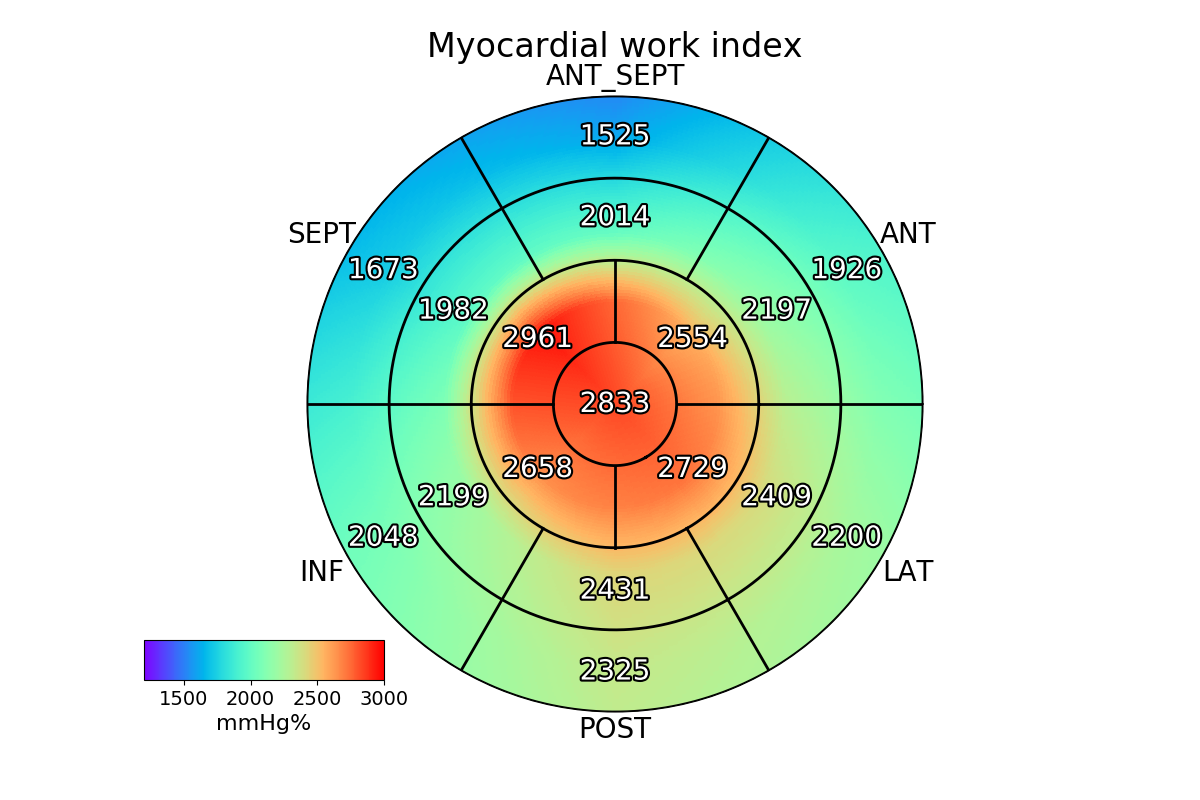
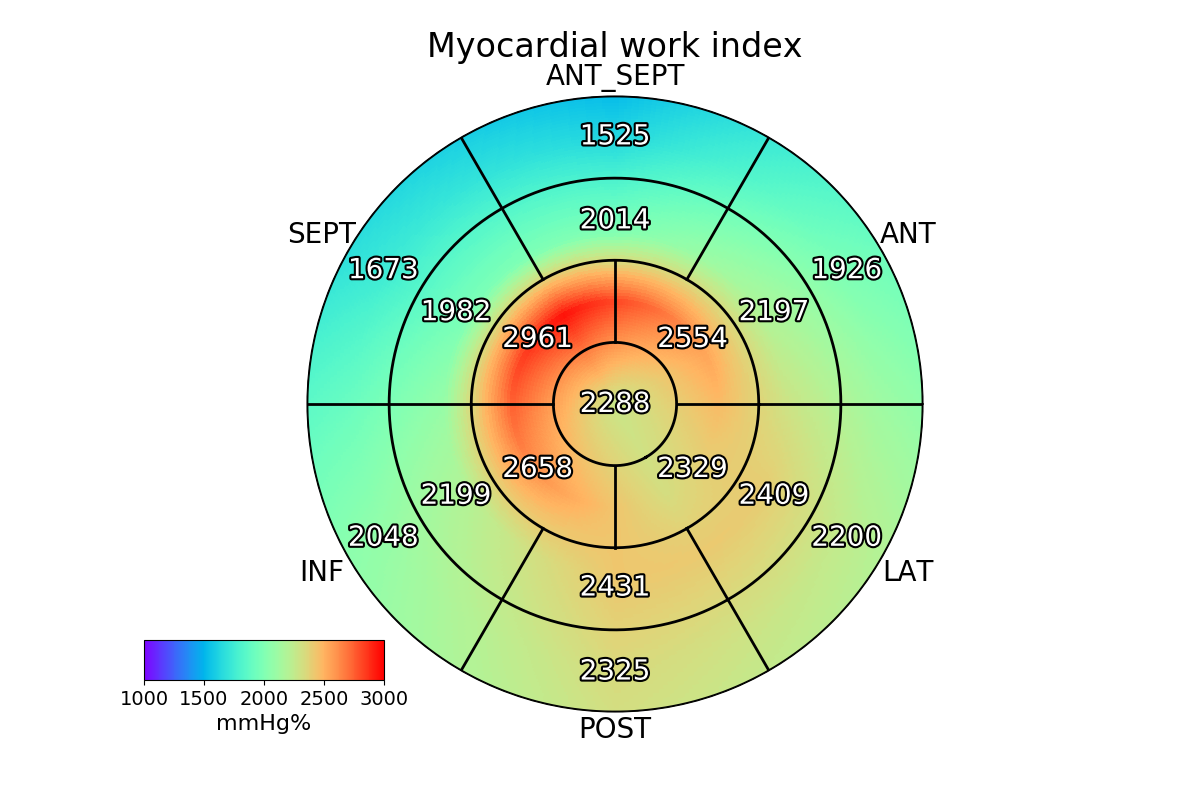
testing

diff --git a/ahasmoothplot.py b/ahasmoothplot.py
@@ -21,41 +21,68 @@ class SmoothAHAPlot:
     Two helper methods are included, adjusted to plot myocardial work and strain values with proper scales.
     """
 
-    # If a pandas dataframe is provided, it should have the following names:
+    # If pandas Series/dictionary must have following index/keys:
     AHA_17_SEGMENT_NAMES = ['Basal Anterior', 'Basal Anteroseptal', 'Basal Inferoseptal',
                             'Basal Inferior', 'Basal Inferolateral', 'Basal Anterolateral',
                             'Mid Anterior', 'Mid Anteroseptal', 'Mid Inferoseptal',
                             'Mid Inferior', 'Mid Inferolateral', 'Mid Anterolateral',
                             'Apical Anterior', 'Apical Septal', 'Apical Inferior', 'Apical Lateral', 'Apex']
     # or
-    ECHOP_18_SEGMENTS = ['Basal Anterior', 'Basal Anteroseptal', 'Basal Septal',
-                         'Basal Inferior', 'Basal Posterior', 'Basal Lateral',
-                         'Mid Anterior', 'Mid Anteroseptal', 'Mid Septal',
-                         'Mid Inferior', 'Mid Posterior', 'Mid Lateral',
-                         'Apical Anterior', 'Apical Anteroseptal', 'Apical Septal',
-                         'Apical Inferior', 'Apical Posterior', 'Apical Lateral']
+    AHA_18_SEGMENT_NAMES = ['Basal Anterior', 'Basal Anteroseptal', 'Basal Inferoseptal',
+                            'Basal Inferior', 'Basal Inferolateral', 'Basal Anterolateral',
+                            'Mid Anterior', 'Mid Anteroseptal', 'Mid Inferoseptal',
+                            'Mid Inferior', 'Mid Inferolateral', 'Mid Anterolateral',
+                            'Apical Anterior', 'Apical Anteroseptal', 'Apical Inferoseptal',
+                            'Apical Inferior', 'Apical Inferolateral', 'Apical Anterolateral']
 
-    # The actual names of the segments:
+    # The names of the segments:
     AHA_SEGMENT_NAMES = ['Anterior', 'Anteroseptal', 'Inferoseptal',
                          'Inferior', 'Inferolateral', 'Anterolateral']
+
     # EchoPAC version of the names:
     ECHOP_SEGMENT_ABBRV = ['ANT', 'ANT_SEPT', 'SEPT', 'INF', 'POST', 'LAT']
 
-    def __init__(self, data, output_path='', plot_filename='AHA_plot.png', n_segments=17):
+    def __init__(self, segments, output_path='', n_segments=17):
 
-        if data is None:
-            self.data = [0] * n_segments
+        assert n_segments in [17, 18], ('Please provide the correct number of segments for the plot: 17 or 18.'
+                                        'Current n_segments: {}'.format(n_segments))
+        self.n_segments = n_segments
+
+        if segments is None:
+            self.seg_values = [0] * n_segments
             print('No data provided. Please provide segmental values for the plot: SmoothAHAPlot.data = ...')
         else:
-            assert len(data) == n_segments, 'Please provide the proper number of segmental values for the plot. ' \
-                                            'len(data) = {}, n_segments: {}'.format(len(data), n_segments)
-            self.data = data
-        self.n_segments = n_segments
+            assert len(segments) == n_segments, 'Please provide the proper number of segmental values for the plot. ' \
+                                                'len(data) = {}, n_segments: {}'.format(len(segments), n_segments)
+            self.seg_values = self._get_segmental_values(segments)
+
         self.output_path = output_path
-        self.plot_filename = plot_filename
         self.levels = None
         self.fig = None
         self.resolution = (768, 100)
+
+    def _get_segmental_values(self, segments):
+
+        if self.n_segments == 17:
+            seg_list = self.AHA_17_SEGMENT_NAMES
+        else:
+            seg_list = self.AHA_18_SEGMENT_NAMES
+
+        segmental_values = []
+        if isinstance(segments, dict):
+            for seg_name in seg_list:
+                try:
+                    segmental_values.append(segments[seg_name])
+                except KeyError:
+                    exit('Value of segment {} is missing!'.format(seg_name))
+
+        elif isinstance(segments, pd.Series):
+            segments = segments.reindex(seg_list, axis=1)
+            if segments.isnull().values.any():
+                exit('Segmental names are incompatibile:\n{}\n{}'.format(segments.index, seg_list))
+            segmental_values = segments.values
+
+        return segmental_values
 
     def _interpolate_17_aha_values(self, aha_values=None):
         """
@@ -64,10 +91,10 @@ class SmoothAHAPlot:
             The 17 values
         :return:
         """
-        assert len(self.data) == 17, 'Please provide the proper number of segmental values for the 17 AHA plot. ' \
-                                     'len(data) = {}'.format(len(self.data))
+        assert len(self.seg_values) == 17, 'Please provide the proper number of segmental values for the 17 AHA plot. ' \
+                                           'len(data) = {}'.format(len(self.seg_values))
         if aha_values is None:
-            aha_values = self.data
+            aha_values = self.seg_values
 
         res_x = self.resolution[0]
         res_y = self.resolution[1]
@@ -115,10 +142,10 @@ class SmoothAHAPlot:
             The 18 values
         :return:
         """
-        assert len(self.data) == 18, 'Please provide the proper number of segmental values for the 18 AHA plot. ' \
-                                     'len(data) = {}'.format(len(self.data))
+        assert len(self.seg_values) == 18, ('Please provide the proper number of segmental values for the 18 AHA plot. '
+                                           'len(data) = {}'.format(len(self.seg_values)))
         if aha_values is None:
-            aha_values = self.data
+            aha_values = self.seg_values
 
         res_x = self.resolution[0]
         res_y = self.resolution[1]
@@ -184,7 +211,7 @@ class SmoothAHAPlot:
         """
 
         if norm is None:
-            norm = mpl.colors.Normalize(vmin=self.data.min(), vmax=self.data.max())
+            norm = mpl.colors.Normalize(vmin=self.seg_values.min(), vmax=self.seg_values.max())
         elif isinstance(norm, tuple) and len(norm) == 2:
             norm = mpl.colors.Normalize(vmin=norm[0], vmax=norm[1])
         else:
@@ -204,7 +231,7 @@ class SmoothAHAPlot:
             seg_names_pos = np.repeat([0.06], 6)
 
         # -----Basic assumptions on resolution--------------------------------------------------------------------------
-        self.data = np.array(self.data).ravel()
+        self.seg_values = np.array(self.seg_values).ravel()
         theta = np.linspace(0, 2 * np.pi, self.resolution[0])
         if echop:
             theta -= np.pi / 3
@@ -232,20 +259,20 @@ class SmoothAHAPlot:
 
         # -----Linear interpolation-------------------------------------------------------------------------------------
         if self.n_segments == 17:
-            interp_data = self._interpolate_17_aha_values(self.data)
+            interp_data = self._interpolate_17_aha_values(self.seg_values)
         else:
-            interp_data = self._interpolate_18_aha_values(self.data)
+            interp_data = self._interpolate_18_aha_values(self.seg_values)
 
         r = np.linspace(0, 1, interp_data.shape[0])
         # ==============================================================================================================
 
-        # -----Fill segments 1:12---------------------------------------------------------------------------------------
+        # -----Fill segments -------------------------------------------------------------------------------------------
         r0 = np.repeat(r[:, np.newaxis], self.resolution[0], axis=1).T
         theta0 = np.repeat(theta[:, np.newaxis], r0.shape[1], axis=1)
         z = interp_data
         z = z.T
 
-        # Colour
+        # Color the plot
         if smooth_contour and (self.levels is not None):
             cf = ax.contourf(theta0, r0, z, cmap=cmap, levels=self.levels)
             cf.ax.axis('off')
@@ -255,23 +282,23 @@ class SmoothAHAPlot:
         # Annotate
         for i in range(6):
             # Segments 1-6
-            ax.text(np.deg2rad(i * 60) + np.deg2rad(seg_align_12), np.mean(r[73:]), int(self.data[i]), fontsize=20,
+            ax.text(np.deg2rad(i * 60) + np.deg2rad(seg_align_12), np.mean(r[73:]), int(self.seg_values[i]), fontsize=20,
                     ha='center', va='center', color='w',
                     path_effects=[pef.Stroke(linewidth=3, foreground='k'), pef.Normal()])
             # Segments 7-12
-            ax.text(np.deg2rad(i * 60) + np.deg2rad(seg_align_12), np.mean(r[46:73]), int(self.data[i+6]), fontsize=20,
+            ax.text(np.deg2rad(i * 60) + np.deg2rad(seg_align_12), np.mean(r[46:73]), int(self.seg_values[i+6]), fontsize=20,
                     ha='center', va='center', color='w',
                     path_effects=[pef.Stroke(linewidth=3, foreground='k'), pef.Normal()])
-            # Sides
+            # Segment names
             ax.text(np.deg2rad(i * 60) + np.deg2rad(seg_align_12), r[-1] + seg_names_pos[i], seg_names[i],
                     fontsize=20, ha='center', va='center', rotation=rot[i])
         # Segments 13-16
         for i in range(4):
-            ax.text(np.deg2rad(i * 90) + np.deg2rad(seg_align_13_16[i]), np.mean(r[20:46]), int(self.data[i + 12]),
+            ax.text(np.deg2rad(i * 90) + np.deg2rad(seg_align_13_16[i]), np.mean(r[20:46]), int(self.seg_values[i + 12]),
                     fontsize=20, ha='center', va='center', color='w',
                     path_effects=[pef.Stroke(linewidth=3, foreground='k'), pef.Normal()])
         # Segment 17
-        ax.text(0, 0, int(self.data[16]), fontsize=20, ha='center', va='center', color='w',
+        ax.text(0, 0, int(self.seg_values[16]), fontsize=20, ha='center', va='center', color='w',
                 path_effects=[pef.Stroke(linewidth=3, foreground='k'), pef.Normal()])
         # ==============================================================================================================
 
@@ -316,7 +343,7 @@ class SmoothAHAPlot:
         """
 
         if norm is None:
-            norm = mpl.colors.Normalize(vmin=self.data.min(), vmax=self.data.max())
+            norm = mpl.colors.Normalize(vmin=self.seg_values.min(), vmax=self.seg_values.max())
         elif isinstance(norm, tuple) and len(norm) == 2:
             norm = mpl.colors.Normalize(vmin=norm[0], vmax=norm[1])
         else:
@@ -334,7 +361,7 @@ class SmoothAHAPlot:
             seg_names_pos = np.repeat([0.06], 6)
 
         # -----Basic assumptions on resolution--------------------------------------------------------------------------
-        self.data = np.array(self.data).ravel()
+        self.seg_values = np.array(self.seg_values).ravel()
         theta = np.linspace(0, 2 * np.pi, self.resolution[0])
         if echop:
             theta -= np.pi / 3
@@ -356,9 +383,9 @@ class SmoothAHAPlot:
 
         # -----Linear interpolation-------------------------------------------------------------------------------------
         if self.n_segments == 17:
-            interp_data = self._interpolate_17_aha_values(self.data)
+            interp_data = self._interpolate_17_aha_values(self.seg_values)
         else:
-            interp_data = self._interpolate_18_aha_values(self.data)
+            interp_data = self._interpolate_18_aha_values(self.seg_values)
 
         r = np.linspace(0, 1, interp_data.shape[0])
         # ==============================================================================================================
@@ -373,13 +400,13 @@ class SmoothAHAPlot:
 
         # Annotate
         for i in range(6):
-            ax.text(np.deg2rad(i * 60) + np.deg2rad(seg_align), 0.84, int(self.data[i]), fontsize=20,
+            ax.text(np.deg2rad(i * 60) + np.deg2rad(seg_align), 0.84, int(self.seg_values[i]), fontsize=20,
                     ha='center', va='center', color='w',
                     path_effects=[pef.Stroke(linewidth=3, foreground='k'), pef.Normal()])
-            ax.text(np.deg2rad(i * 60) + np.deg2rad(seg_align), 0.55, int(self.data[i + 6]), fontsize=20,
+            ax.text(np.deg2rad(i * 60) + np.deg2rad(seg_align), 0.55, int(self.seg_values[i + 6]), fontsize=20,
                     ha='center', va='center', color='w',
                     path_effects=[pef.Stroke(linewidth=3, foreground='k'), pef.Normal()])
-            ax.text(np.deg2rad(i * 60) + np.deg2rad(seg_align), 0.25, int(self.data[i + 12]), fontsize=20,
+            ax.text(np.deg2rad(i * 60) + np.deg2rad(seg_align), 0.25, int(self.seg_values[i + 12]), fontsize=20,
                     ha='center', va='center', color='w',
                     path_effects=[pef.Stroke(linewidth=3, foreground='k'), pef.Normal()])
             ax.text(np.deg2rad(i * 60) + np.deg2rad(seg_align), r[-1] + seg_names_pos[i], seg_names[i],
@@ -409,14 +436,19 @@ class SmoothAHAPlot:
 
         return fig
 
-    def plot_myocardial_work(self, filename='', data=None, echop=False):
+    def _plot_setup(self, data):
 
-        if filename != '':
-            self.plot_filename = filename
         if data is not None:
             assert len(data) == self.n_segments, 'Please provide correct number of segmental values for the plot. ' \
                                                  'len(data) = {}, n_segments =  {}'.format(len(data), self.n_segments)
-            self.data = data
+            if not isinstance(data, list):
+                data = self._get_segmental_values(data)
+
+        return data
+
+    def plot_myocardial_work(self, filename='', data=None, echop=False):
+
+        self.seg_values = self._plot_setup(data)
 
         cmap = plt.get_cmap('rainbow')
         norm = (1000, 3000)
@@ -428,16 +460,11 @@ class SmoothAHAPlot:
         else:
             fig = self.bullseye_17_smooth(fig=fig, ax=ax, cmap=cmap, norm=norm, title='Myocardial work index',
                                           units='mmHg%', smooth_contour=False, echop=echop)
-        fig.savefig(os.path.join(self.output_path, self.plot_filename))
+        fig.savefig(os.path.join(self.output_path, filename))
 
     def plot_strain(self, filename='', data=None, echop=False):
 
-        if filename != '':
-            self.plot_filename = filename
-        if data is not None:
-            assert len(data) == self.n_segments, 'Please provide correct number of segmental values for the plot. ' \
-                                                 'len(data) = {}, n_segments =  {}'.format(len(data), self.n_segments)
-            self.data = data
+        self.seg_values = self._plot_setup(data)
 
         self.levels = MaxNLocator(nbins=12).tick_values(-30, 30)
         cmap = plt.get_cmap('seismic_r')
@@ -449,36 +476,4 @@ class SmoothAHAPlot:
         else:
             fig = self.bullseye_17_smooth(fig=fig, ax=ax, cmap=cmap, norm=norm, title='Longitudinal strain', units='%',
                                           smooth_contour=True, echop=echop)
-        fig.savefig(os.path.join(self.output_path, self.plot_filename))
-
-    def plot_all(self, df_path='', echop=True):
-
-        df_hyp = pd.read_excel(df_path, index_col=0)
-
-        if self.n_segments == 17:
-            df_hyp = df_hyp.reindex(self.AHA_17_SEGMENT_NAMES, axis=1)
-        else:
-            df_hyp = df_hyp.reindex(self.ECHOP_18_SEGMENTS, axis=1)
-
-        aha.plot_strain('htn_strain_1_aha.png', data=df_hyp.loc['mean_strain_avc_1'].values, echop=echop)
-        aha.plot_strain('htn_strain_2_aha.png', data=df_hyp.loc['mean_strain_avc_2'].values, echop=echop)
-        aha.plot_myocardial_work('htn_MW_1_aha.png', data=df_hyp.loc['mean_MW_1'].values, echop=echop)
-        aha.plot_myocardial_work('htn_MW_2_aha.png', data=df_hyp.loc['mean_MW_2'].values, echop=echop)
-        # aha.plot_strain('strain_all.png', data=df_hyp.loc['mean_strain_avc'].values, echop=echop)
-        # aha.plot_myocardial_work('MW_all.png', data=df_hyp.loc['mean_MW'].values, echop=echop)
-
-
-if __name__ == '__main__':
-    exp_strain_data = [-13, -14, -16, -19, -19, -18, -19, -23, -1, -21, -20, -20, -23, 1, -28, -25, -26, 27]
-    exp_mw_data = [1926, 1525, 1673, 2048, 2325, 2200, 2197, 2014, 1982, 2199, 2431, 2409, 2554, 2961, 2658, 2729, 2833]
-
-    n_seg = 18
-    exp_strain_data = exp_strain_data[:n_seg]
-    aha = SmoothAHAPlot(exp_strain_data, output_path='/home/mat/Python/data/parsing_xml/22 random/output',
-                        plot_filename='17_AHA_strain.png', n_segments=n_seg)
-    aha.plot_all('/home/mat/Python/data/parsing_xml/22 random/output/population_18_AHA.xlsx', echop=False)
-
-    # aha.plot_strain()
-    # aha.plot_myocardial_work('17_AHA_MW.png', data=exp_mw_data)
-    # aha.plot_strain('17_AHA_Echo_strain.png', data=exp_strain_data, echop=True)
-    # aha.plot_myocardial_work('17_AHA_Echo_MW.png', data=exp_mw_data, echop=True)
+        fig.savefig(os.path.join(self.output_path, filename))

diff --git a/test_18.py b/test_18.py
@@ -1,0 +1,40 @@
+from ahasmoothplot import SmoothAHAPlot
+import pandas as pd
+
+
+exp_strain_data = [-13, -14, -16, -19, -19, -18, -19, -23, -19, -21, -20, -20, -23, -22, -28, -25, -26, -22]
+exp_mw_data = [1926, 1525, 1673, 2048, 2325, 2200, 2197, 2014, 1982, 2199, 2431, 2409, 2554, 2961, 2658, 2329, 2533, 2441]
+n_seg = 18
+echop = False
+segments_18 = ['Basal Anterior', 'Basal Anteroseptal', 'Basal Inferoseptal',
+               'Basal Inferior', 'Basal Inferolateral', 'Basal Anterolateral',
+               'Mid Anterior', 'Mid Anteroseptal', 'Mid Inferoseptal',
+               'Mid Inferior', 'Mid Inferolateral', 'Mid Anterolateral',
+               'Apical Anterior', 'Apical Anteroseptal', 'Apical Inferoseptal',
+               'Apical Inferior', 'Apical Inferolateral', 'Apical Anterolateral']
+
+strain_dict = {k: v for (k, v) in zip(segments_18, exp_strain_data)}
+mw_dict = {k: v for (k, v) in zip(segments_18, exp_mw_data)}
+
+# aha = SmoothAHAPlot(exp_strain_data, output_path='/home/mat/Python/data/parsing_xml/22 random/output',
+#                     plot_filename='17_AHA_strain.png', n_segments=n_seg)
+#
+# df_hyp = pd.read_excel('/home/mat/Python/data/parsing_xml/22 random/output/population_18_AHA.xlsx', index_col=0)
+#
+# if aha.n_segments == 17:
+#     df_hyp = df_hyp.reindex(aha.AHA_17_SEGMENT_NAMES, axis=1)
+# else:
+#     df_hyp = df_hyp.reindex(segments_18, axis=1)
+#     df_hyp.columns = aha.AHA_18_SEGMENT_NAMES
+#
+# aha.plot_strain('htn_strain_1_aha.png', data=df_hyp.loc['mean_strain_avc_1'], echop=echop)
+# aha.plot_strain('htn_strain_2_aha.png', data=df_hyp.loc['mean_strain_avc_2'], echop=echop)
+# aha.plot_myocardial_work('htn_MW_1_aha.png', data=df_hyp.loc['mean_MW_1'], echop=echop)
+# aha.plot_myocardial_work('htn_MW_2_aha.png', data=df_hyp.loc['mean_MW_2'], echop=echop)
+
+aha = SmoothAHAPlot(strain_dict, output_path='./images', n_segments=n_seg)
+
+aha.plot_strain('18_AHA_strain.png', data=strain_dict)
+aha.plot_myocardial_work('18_AHA_MW.png', data=mw_dict)
+aha.plot_strain('18_AHA_Echo_strain.png', data=strain_dict, echop=True)
+aha.plot_myocardial_work('18_AHA_Echo_MW.png', data=mw_dict, echop=True)

diff --git a/test_17.py b/test_17.py
@@ -1,0 +1,23 @@
+from ahasmoothplot import SmoothAHAPlot
+import pandas as pd
+
+
+exp_strain_data = [-13, -14, -16, -20, -19, -18, -19, -23, -19, -21, -20, -20, -23, -22, -28, -25, -26]
+exp_mw_data = [1926, 1525, 1673, 2048, 2325, 2200, 2197, 2014, 1982, 2199, 2431, 2409, 2554, 2961, 2658, 2329, 2288]
+n_seg = 17
+echop = False
+segments_17 = ['Basal Anterior', 'Basal Anteroseptal', 'Basal Inferoseptal',
+               'Basal Inferior', 'Basal Inferolateral', 'Basal Anterolateral',
+               'Mid Anterior', 'Mid Anteroseptal', 'Mid Inferoseptal',
+               'Mid Inferior', 'Mid Inferolateral', 'Mid Anterolateral',
+               'Apical Anterior', 'Apical Septal', 'Apical Inferior', 'Apical Lateral', 'Apex']
+
+strain_dict = {k: v for (k, v) in zip(segments_17, exp_strain_data)}
+mw_dict = {k: v for (k, v) in zip(segments_17, exp_mw_data)}
+
+aha = SmoothAHAPlot(strain_dict, output_path='./images', n_segments=n_seg)
+
+aha.plot_strain('17_AHA_strain.png', data=strain_dict)
+aha.plot_myocardial_work('17_AHA_MW.png', data=mw_dict)
+aha.plot_strain('17_AHA_Echo_strain.png', data=strain_dict, echop=True)
+aha.plot_myocardial_work('17_AHA_Echo_MW.png', data=mw_dict, echop=True)

diff --git a/README.md b/README.md
@@ -37,8 +37,6 @@ myocardial perfusion. These segmentation schemes result in segments with compara
 also related (with some varibility) to the coronary perfusion. The proposed segmentations enable standardized 
 communication within echocardiography and across other imaging modalities.
 
-
-
 ---
 # Screenshots
 ## 17 AHA plot of Myocardial Work
